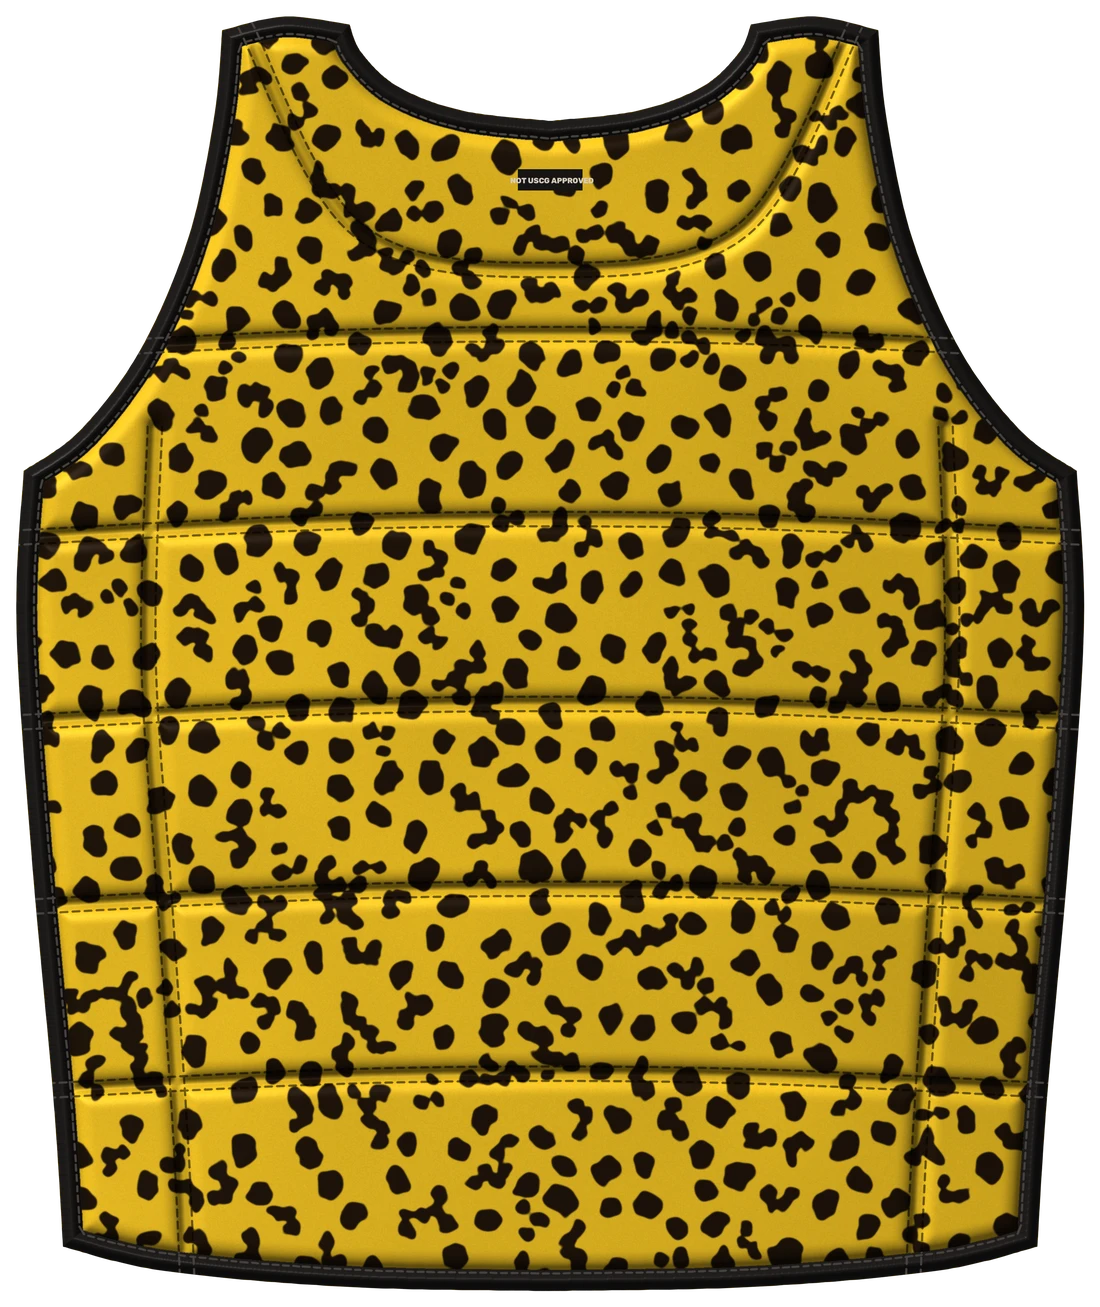
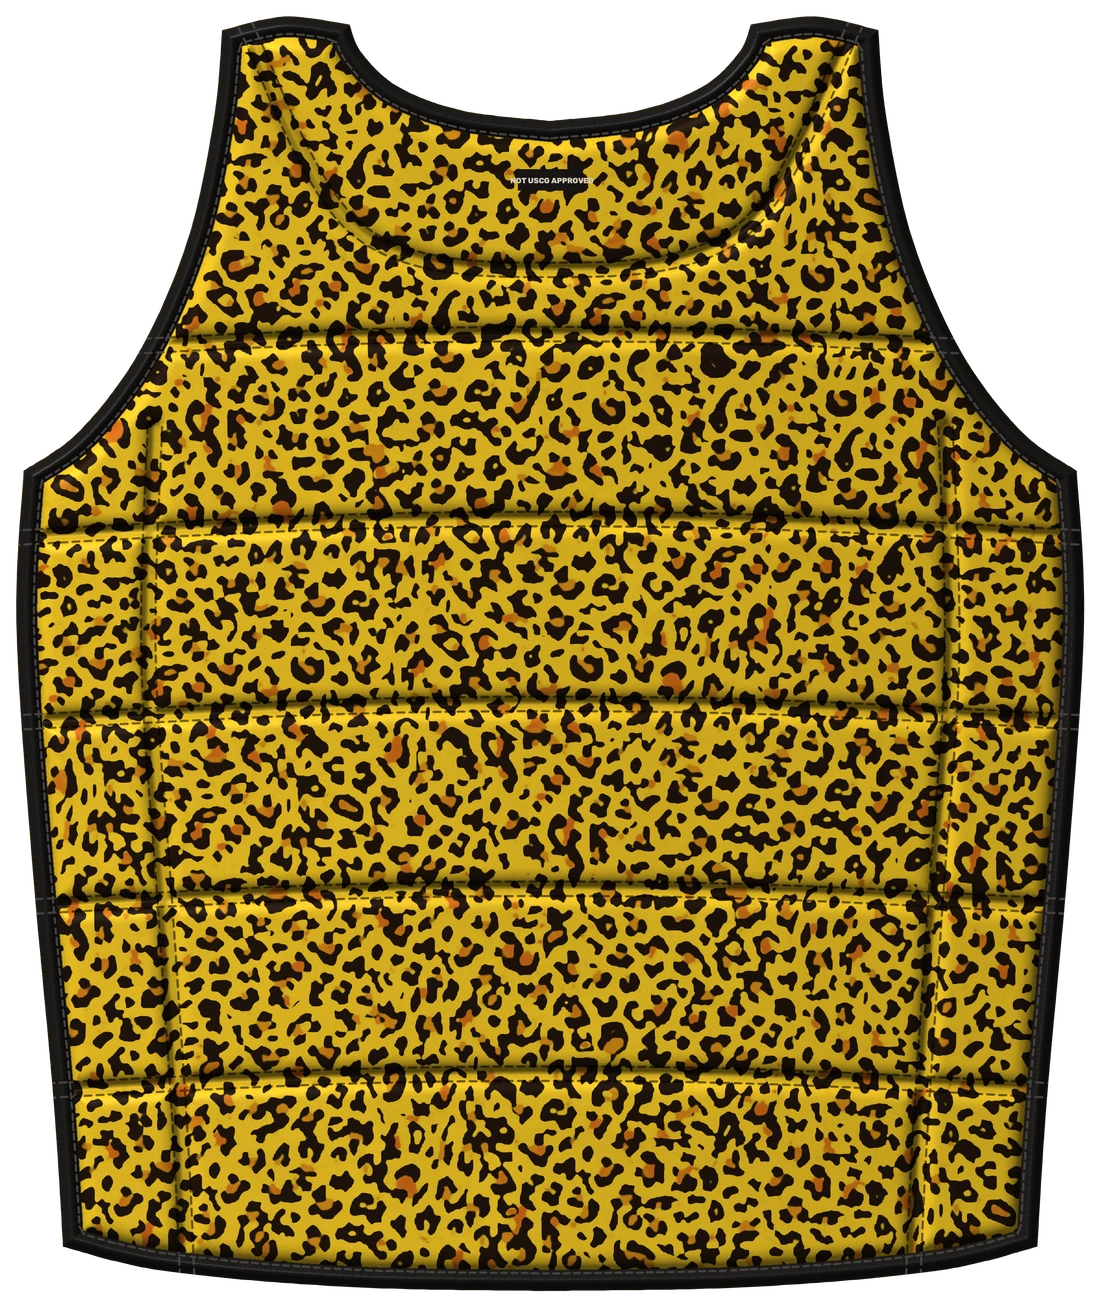
Cheetah: rosette print recoloured neon yellow
Claude-Session: https://claude.ai/code/session_01P5ZP1oAwc5qyL7BEtYjUBD

diff --git a/config.js b/config.js
@@ -36,7 +36,7 @@ window.SITE = {
       img: "cheetah",
       name: "Cheetah",
       kicker: "Big cat, edge to edge",
-      blurb: "Neon yellow with black cheetah spots, wrapped around the whole vest from zipper to side seams. Quiet it is not.",
+      blurb: "Classic big-cat rosettes in neon yellow, wrapped around the whole vest from zipper to side seams. Quiet it is not.",
       glow: "#EAC224",
     },
     {
